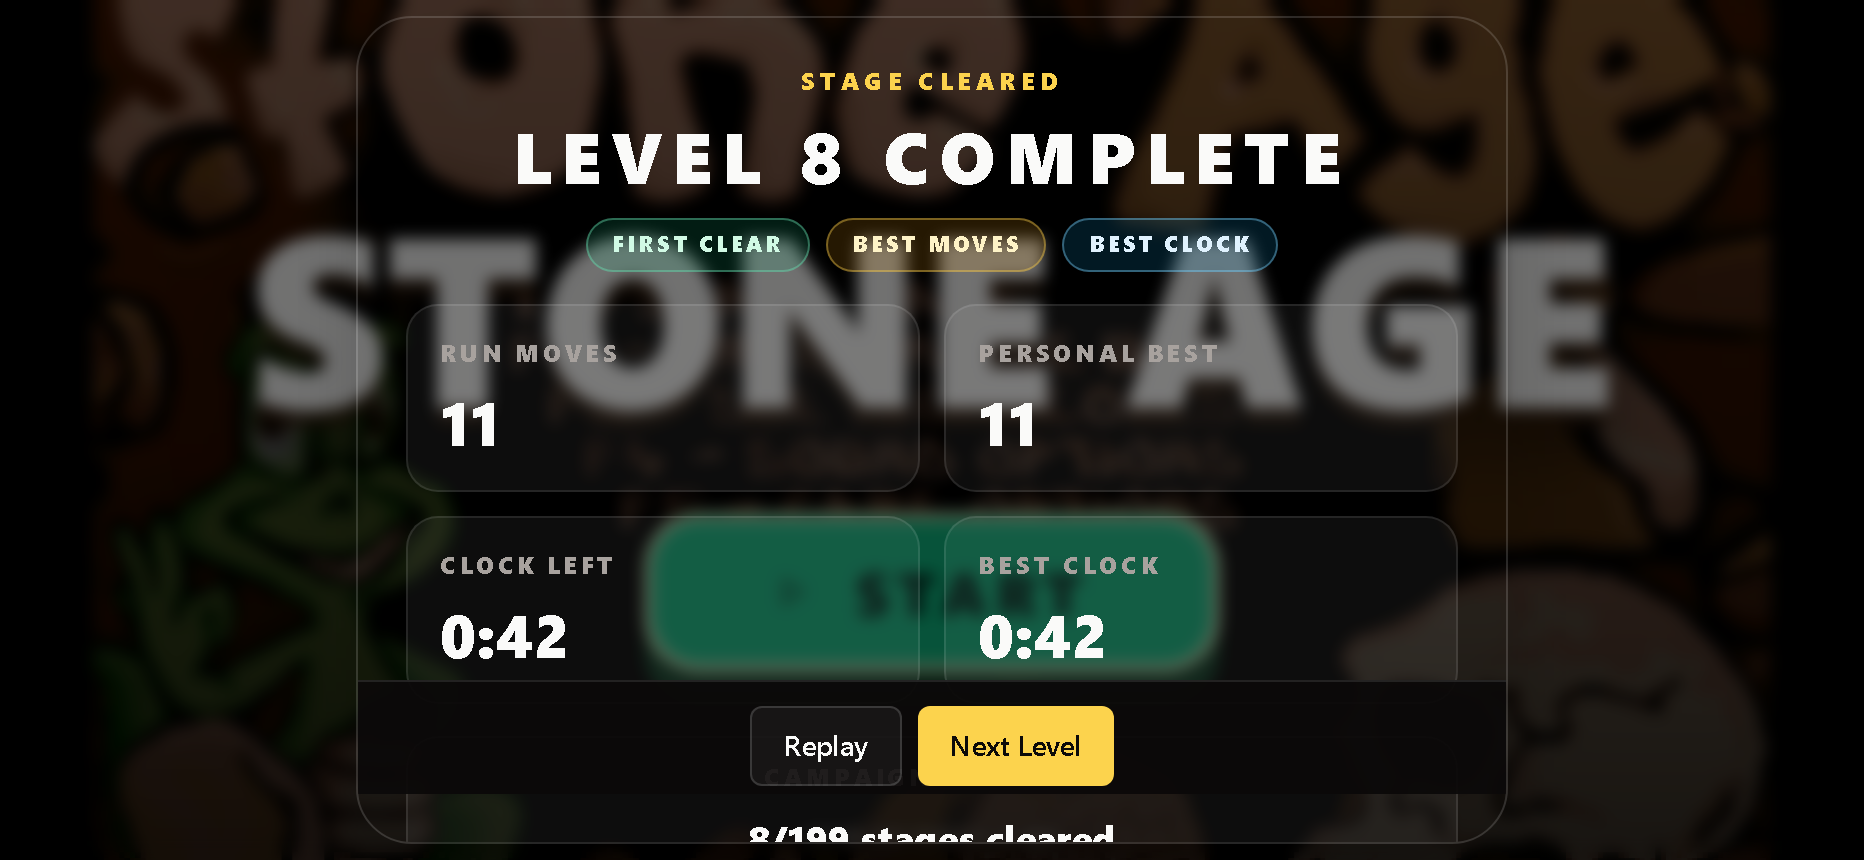
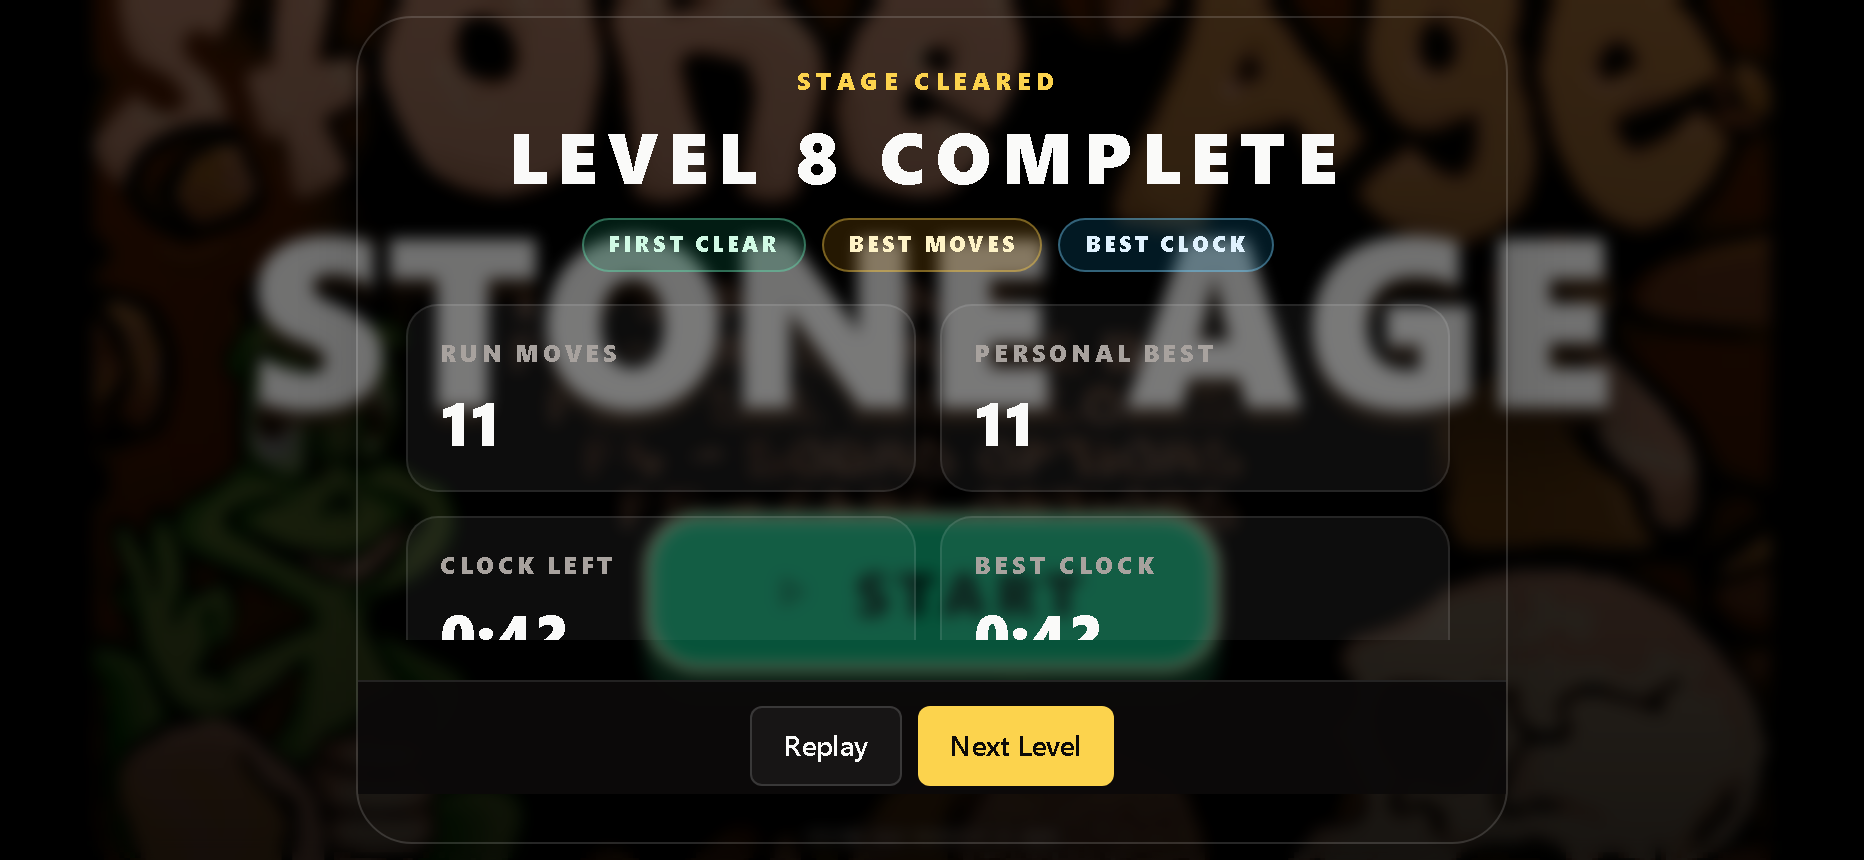
button on mobile

diff --git a/src/components/PuzzleGame.tsx b/src/components/PuzzleGame.tsx
@@ -2764,31 +2764,33 @@ export const PuzzleGame = () => {
         )}
         {isTimeUp && levelTimeLimitSeconds && (
           <div className="absolute inset-0 z-[70] flex items-center justify-center bg-black/55 px-3 py-2 backdrop-blur-sm sm:px-4">
-            <div className="pointer-events-auto max-h-[calc(100svh-1rem)] w-full max-w-xl overflow-y-auto overscroll-contain rounded-[24px] border border-red-200/20 bg-stone-950/92 p-3 text-stone-50 shadow-2xl sm:rounded-[28px] sm:p-5 md:p-6">
-              <div className="text-center">
-                <div className="text-xs font-black uppercase tracking-[0.22em] text-red-300">
-                  Time Expired
+            <div className="pointer-events-auto flex max-h-[calc(100svh-1rem)] w-full max-w-xl flex-col overflow-hidden rounded-[24px] border border-red-200/20 bg-stone-950/92 p-3 text-stone-50 shadow-2xl sm:rounded-[28px] sm:p-5 md:p-6">
+              <div className="min-h-0 flex-1 overflow-y-auto overscroll-contain pr-1">
+                <div className="text-center">
+                  <div className="text-xs font-black uppercase tracking-[0.22em] text-red-300">
+                    Time Expired
+                  </div>
+                  <div className="mt-1 text-2xl font-black uppercase tracking-[0.14em] text-red-50 sm:mt-2 sm:text-3xl md:text-4xl">
+                    Time&apos;s Up!
+                  </div>
+                  <div className="mt-2 text-sm font-semibold text-stone-300 sm:mt-3">
+                    Level {currentLevel.id} stopped at {moves} moves.
+                  </div>
                 </div>
-                <div className="mt-1 text-2xl font-black uppercase tracking-[0.14em] text-red-50 sm:mt-2 sm:text-3xl md:text-4xl">
-                  Time&apos;s Up!
-                </div>
-                <div className="mt-2 text-sm font-semibold text-stone-300 sm:mt-3">
-                  Level {currentLevel.id} stopped at {moves} moves.
+
+                <div className="mt-3 grid gap-2 sm:mt-4 sm:grid-cols-2 sm:gap-3">
+                  <div className="rounded-2xl border border-white/10 bg-white/5 p-3 sm:p-4">
+                    <div className="text-xs font-black uppercase tracking-[0.16em] text-stone-400">Run Moves</div>
+                    <div className="mt-1 text-2xl font-black sm:mt-2 sm:text-3xl">{moves}</div>
+                  </div>
+                  <div className="rounded-2xl border border-red-300/20 bg-red-500/10 p-3 sm:p-4">
+                    <div className="text-xs font-black uppercase tracking-[0.16em] text-red-200/80">Clock</div>
+                    <div className="mt-1 text-2xl font-black text-red-100 sm:mt-2 sm:text-3xl">0:00</div>
+                  </div>
                 </div>
               </div>
 
-              <div className="mt-3 grid gap-2 sm:mt-4 sm:grid-cols-2 sm:gap-3">
-                <div className="rounded-2xl border border-white/10 bg-white/5 p-3 sm:p-4">
-                  <div className="text-xs font-black uppercase tracking-[0.16em] text-stone-400">Run Moves</div>
-                  <div className="mt-1 text-2xl font-black sm:mt-2 sm:text-3xl">{moves}</div>
-                </div>
-                <div className="rounded-2xl border border-red-300/20 bg-red-500/10 p-3 sm:p-4">
-                  <div className="text-xs font-black uppercase tracking-[0.16em] text-red-200/80">Clock</div>
-                  <div className="mt-1 text-2xl font-black text-red-100 sm:mt-2 sm:text-3xl">0:00</div>
-                </div>
-              </div>
-
-              <div className="sticky bottom-0 -mx-3 mt-3 flex flex-wrap items-center justify-center gap-2 border-t border-white/10 bg-stone-950/95 px-3 pb-1 pt-3 sm:-mx-5 sm:mt-5 sm:px-5 md:-mx-6 md:px-6">
+              <div className="shrink-0 -mx-3 mt-3 flex flex-wrap items-center justify-center gap-2 border-t border-white/10 bg-stone-950/95 px-3 pb-1 pt-3 sm:-mx-5 sm:mt-5 sm:px-5 md:-mx-6 md:px-6">
                 <Button
                   onClick={resetLevel}
                   className="bg-red-300 text-stone-950 hover:bg-red-200"
@@ -2801,64 +2803,66 @@ export const PuzzleGame = () => {
         )}
         {isComplete && completionSummary && (
           <div className="absolute inset-0 z-[70] flex items-center justify-center bg-black/55 px-3 py-2 backdrop-blur-sm sm:px-4">
-            <div className="pointer-events-auto max-h-[calc(100svh-1rem)] w-full max-w-xl overflow-y-auto overscroll-contain rounded-[24px] border border-white/15 bg-stone-950/92 p-3 text-stone-50 shadow-2xl sm:rounded-[28px] sm:p-5 md:p-6">
-              <div className="text-center">
-                <div className="text-xs font-black uppercase tracking-[0.22em] text-amber-300">
-                  Stage Cleared
-                </div>
-                <div className="mt-1 text-2xl font-black uppercase tracking-[0.14em] sm:mt-2 sm:text-3xl md:text-4xl">
-                  Level {completionSummary.levelId} Complete
-                </div>
-                <div className="mt-2 flex flex-wrap items-center justify-center gap-1.5 sm:mt-3 sm:gap-2">
-                  {completionSummary.isFirstClear && (
-                    <span className="rounded-full border border-emerald-300/40 bg-emerald-500/15 px-3 py-1 text-[11px] font-black uppercase tracking-[0.14em] text-emerald-100">
-                      First Clear
-                    </span>
-                  )}
-                  {completionSummary.isNewBestMoves && (
-                    <span className="rounded-full border border-amber-300/40 bg-amber-500/15 px-3 py-1 text-[11px] font-black uppercase tracking-[0.14em] text-amber-100">
-                      Best Moves
-                    </span>
-                  )}
-                  {completionSummary.isNewBestTime && (
-                    <span className="rounded-full border border-sky-300/40 bg-sky-500/15 px-3 py-1 text-[11px] font-black uppercase tracking-[0.14em] text-sky-100">
-                      Best Clock
-                    </span>
-                  )}
-                </div>
-              </div>
-
-              <div className="mt-3 grid gap-2 sm:mt-4 sm:grid-cols-2 sm:gap-3">
-                <div className="rounded-2xl border border-white/10 bg-white/5 p-3 sm:p-4">
-                  <div className="text-xs font-black uppercase tracking-[0.16em] text-stone-400">Run Moves</div>
-                  <div className="mt-1 text-2xl font-black sm:mt-2 sm:text-3xl">{completionSummary.moves}</div>
-                </div>
-                <div className="rounded-2xl border border-white/10 bg-white/5 p-3 sm:p-4">
-                  <div className="text-xs font-black uppercase tracking-[0.16em] text-stone-400">Personal Best</div>
-                  <div className="mt-1 text-2xl font-black sm:mt-2 sm:text-3xl">{completionSummary.bestMoves ?? "--"}</div>
-                </div>
-                {completionClockText && (
-                  <div className="rounded-2xl border border-white/10 bg-white/5 p-3 sm:p-4">
-                    <div className="text-xs font-black uppercase tracking-[0.16em] text-stone-400">Clock Left</div>
-                    <div className="mt-1 text-2xl font-black sm:mt-2 sm:text-3xl">{completionClockText}</div>
+            <div className="pointer-events-auto flex max-h-[calc(100svh-1rem)] w-full max-w-3xl flex-col overflow-hidden rounded-[24px] border border-white/15 bg-stone-950/92 p-3 text-stone-50 shadow-2xl sm:rounded-[28px] sm:p-5 md:p-6">
+              <div className="min-h-0 flex-1 overflow-y-auto overscroll-contain pr-1">
+                <div className="text-center">
+                  <div className="text-xs font-black uppercase tracking-[0.22em] text-amber-300">
+                    Stage Cleared
                   </div>
-                )}
-                {completionBestClockText && (
-                  <div className="rounded-2xl border border-white/10 bg-white/5 p-3 sm:p-4">
-                    <div className="text-xs font-black uppercase tracking-[0.16em] text-stone-400">Best Clock</div>
-                    <div className="mt-1 text-2xl font-black sm:mt-2 sm:text-3xl">{completionBestClockText}</div>
+                  <div className="mt-1 text-2xl font-black uppercase tracking-[0.14em] sm:mt-2 sm:text-3xl md:text-4xl">
+                    Level {completionSummary.levelId} Complete
                   </div>
-                )}
-              </div>
+                  <div className="mt-2 flex flex-wrap items-center justify-center gap-1.5 sm:mt-3 sm:gap-2">
+                    {completionSummary.isFirstClear && (
+                      <span className="rounded-full border border-emerald-300/40 bg-emerald-500/15 px-3 py-1 text-[11px] font-black uppercase tracking-[0.14em] text-emerald-100">
+                        First Clear
+                      </span>
+                    )}
+                    {completionSummary.isNewBestMoves && (
+                      <span className="rounded-full border border-amber-300/40 bg-amber-500/15 px-3 py-1 text-[11px] font-black uppercase tracking-[0.14em] text-amber-100">
+                        Best Moves
+                      </span>
+                    )}
+                    {completionSummary.isNewBestTime && (
+                      <span className="rounded-full border border-sky-300/40 bg-sky-500/15 px-3 py-1 text-[11px] font-black uppercase tracking-[0.14em] text-sky-100">
+                        Best Clock
+                      </span>
+                    )}
+                  </div>
+                </div>
 
-              <div className="mt-3 rounded-2xl border border-white/10 bg-white/5 px-3 py-2 text-center sm:mt-4 sm:px-4 sm:py-3">
-                <div className="text-xs font-black uppercase tracking-[0.16em] text-stone-400">Campaign Progress</div>
-                <div className="mt-1 text-base font-black text-stone-50 sm:mt-2 sm:text-lg">
-                  {completionSummary.completedCount}/{completionSummary.totalLevels} stages cleared
+                <div className="mt-3 grid gap-2 sm:mt-4 sm:grid-cols-4 sm:gap-3">
+                  <div className="rounded-2xl border border-white/10 bg-white/5 p-3 sm:p-4">
+                    <div className="text-xs font-black uppercase tracking-[0.16em] text-stone-400">Run Moves</div>
+                    <div className="mt-1 text-2xl font-black sm:mt-2 sm:text-3xl">{completionSummary.moves}</div>
+                  </div>
+                  <div className="rounded-2xl border border-white/10 bg-white/5 p-3 sm:p-4">
+                    <div className="text-xs font-black uppercase tracking-[0.16em] text-stone-400">Personal Best</div>
+                    <div className="mt-1 text-2xl font-black sm:mt-2 sm:text-3xl">{completionSummary.bestMoves ?? "--"}</div>
+                  </div>
+                  {completionClockText && (
+                    <div className="rounded-2xl border border-white/10 bg-white/5 p-3 sm:p-4">
+                      <div className="text-xs font-black uppercase tracking-[0.16em] text-stone-400">Clock Left</div>
+                      <div className="mt-1 text-2xl font-black sm:mt-2 sm:text-3xl">{completionClockText}</div>
+                    </div>
+                  )}
+                  {completionBestClockText && (
+                    <div className="rounded-2xl border border-white/10 bg-white/5 p-3 sm:p-4">
+                      <div className="text-xs font-black uppercase tracking-[0.16em] text-stone-400">Best Clock</div>
+                      <div className="mt-1 text-2xl font-black sm:mt-2 sm:text-3xl">{completionBestClockText}</div>
+                    </div>
+                  )}
+                </div>
+
+                <div className="mt-3 rounded-2xl border border-white/10 bg-white/5 px-3 py-2 text-center sm:mt-4 sm:px-4 sm:py-3">
+                  <div className="text-xs font-black uppercase tracking-[0.16em] text-stone-400">Campaign Progress</div>
+                  <div className="mt-1 text-base font-black text-stone-50 sm:mt-2 sm:text-lg">
+                    {completionSummary.completedCount}/{completionSummary.totalLevels} stages cleared
+                  </div>
                 </div>
               </div>
 
-              <div className="sticky bottom-0 -mx-3 mt-3 flex flex-wrap items-center justify-center gap-2 border-t border-white/10 bg-stone-950/95 px-3 pb-1 pt-3 sm:-mx-5 sm:mt-5 sm:px-5 md:-mx-6 md:px-6">
+              <div className="shrink-0 -mx-3 mt-3 flex flex-wrap items-center justify-center gap-2 border-t border-white/10 bg-stone-950/95 px-3 pb-1 pt-3 sm:-mx-5 sm:mt-5 sm:px-5 md:-mx-6 md:px-6">
                 <Button
                   onClick={resetLevel}
                   variant="outline"